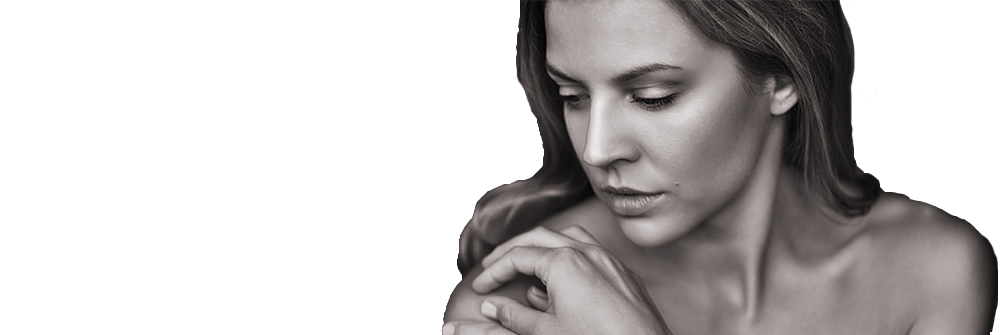
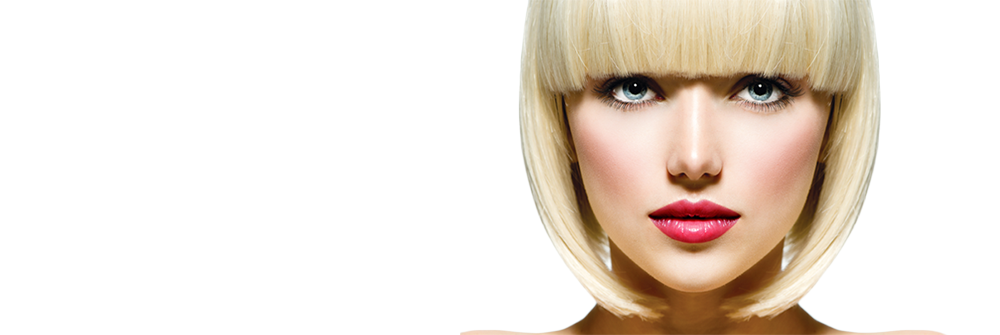
Next upload

diff --git a/sites/zabiegi/zabiegi.html b/sites/zabiegi/zabiegi.html
@@ -1,0 +1,190 @@
+<!DOCTYPE html>
+<html>
+<head>
+	<meta charset="utf-8">
+	<title>Medycyna Estetyczna - Jaśkowice</title>
+	<link rel="stylesheet" href="../css/style.css">
+	<link href="https://fonts.googleapis.com/css?family=Antic+Didone|Cinzel|Cormorant+Garamond|Libre+Baskerville|Maitree|Old+Standard+TT|Poiret+One" rel="stylesheet"> 
+	<script src="https://ajax.googleapis.com/ajax/libs/jquery/3.2.1/jquery.min.js"></script>
+	<script src="../js/flipper.js"></script>
+	<link href="//maxcdn.bootstrapcdn.com/font-awesome/4.1.0/css/font-awesome.min.css" rel="stylesheet">
+</head>
+<body>
+	<section id="mainImages">
+		<p class="thetop"> &nbsp;</p>
+		<nav class="nav">
+		<section>
+			<a href="../index.html"><img id="logo" src="../images/logo.png"/></a>
+		</section>
+		<ul id="links">
+			<li class="linkItem"><a href="omnie.html">O Mnie</a></li>
+			<li class="linkItem"><a href="cennik.html">Cennik</a></li>
+			<li class="linkItem"><a href="promocje.html">Promocje</a></li>
+			<li class="linkItem"><a href="galeria.html">Galeria</a></li>
+			<li class="linkItem"><a href="kontakt.html">Kontakt</a></li>
+		</ul>
+	</nav>
+		
+	<div id="slideshow">
+		<div id="slideBox1">
+		</div>
+		<div id="slideBox2">
+		</div>
+		<div id="slideBox3">
+		</div>
+	</div>
+	</section>
+	
+	<div class="wrapper">
+		<section class=fullWidth>
+			<h1 class="artHead">Zabiegi odmładzające i wyszczuplające</h1>
+			<h2 class="smallHead">Zapraszam do zapoznania się z ofertą mojego gabinetu medycyny estetycznej w Jaśkowicach.</h2>
+			
+			<div class="flip-container" ontouchstart="this.classList.toggle('hover');">
+				<div class="flipper">
+					<div class="front" id="flipCard1">
+						<h3 class="flipHead">BOTOKS</h3>
+					</div>
+					<div class="back">
+						<h3 class="backHead">BOTOKS</h3>
+						<p class="backCont">Obecnie najpopularniejszy i podstawowy  zabieg medycyny estetycznej  mający na celu zwalczanie zmarszczek. Uważany jest za środek, który szybko likwiduje zmarszczki oraz wykazuje działanie przeciwstarzeniowe (anty-aging).</p>
+						<a href="zabiegi/botoks.html"><button class="backMore">dowiedz się więcej</button></a>
+					</div>
+				</div>
+			</div>
+			<div class="flip-container" ontouchstart="this.classList.toggle('hover');">
+				<div class="flipper">
+					<div class="front" id="flipCard2">
+						<h3 class="flipHead">KWAS HIALURONOWY (HA)</h3>
+					</div>
+					<div class="back">
+						<h3 class="backHead">KWAS HIALURONOWY (HA)</h3>
+						<p class="backCont">Kwas hialuronowy to substancja naturalnie występująca w organizmie człowieka. Stanowi on główną komponentę macierzy zewnątrzkomórkowej skóry.Jego  podstawową funkcją jest wiązanie wody, co pozwala utrzymać właściwy stopień nawilżenia tkanek. Jednak wraz z wiekiem zmniejsza się jego ilość oraz zmienia się też jego jakość, co doprowadza do zwiotczenia skóry, spowalniają się procesy gojenia czego konsekwencją morfologiczną jest pojawienie się zmarszczek.</p>
+						<a href="zabiegi/wypelniacze_kwas.html"><button class="backMore">dowiedz się więcej</button></a>
+					</div>
+				</div>
+			</div>
+			<div class="flip-container" ontouchstart="this.classList.toggle('hover');">
+				<div class="flipper">
+					<div class="front" id="flipCard3">
+						<h3 class="flipHead">OSOCZE BOGATOPŁYTKOWE-PRP</h3>
+					</div>
+					<div class="back">
+						<h3 class="backHead">OSOCZE BOGATOPŁYTKOWE-PRP</h3>
+						<p class="backCont">Osocze bogatopłytkowe to koncentrat płytek krwi w niewielkiej objętości osocza. Pochodzi z krwi pacjenta, zawiera czynniki wzrostu oraz białka odpowiedzialne za adhezję komórkową.</p>
+						<a href="zabiegi/osocze.html"><button class="backMore">dowiedz się więcej</button></a>
+					</div>
+				</div>
+			</div>
+			<div class="flip-container" ontouchstart="this.classList.toggle('hover');">
+				<div class="flipper">
+					<div class="front" id="flipCard4">
+						<h3 class="flipHead">USTA</h3>
+					</div>
+					<div class="back">
+						<h3 class="backHead">USTA</h3>
+						<p class="backCont">Stosowane przeze mnie preparaty kwasu hialuronowego to nowoczesne oraz całkowicie bezpieczne produkty pozwalające osiągnąć maksymalną satysfakcję. Dzięki najnowszej generacji prepratów osiągnąć możemy powiększenie objętości , odpowiednie nawilżenia oraz uwydatnienie konturu.</p>
+						<a href="zabiegi/usta.html"><button class="backMore">dowiedz się więcej</button></a>
+					</div>
+				</div>
+			</div>
+			<div class="flip-container" ontouchstart="this.classList.toggle('hover');">
+				<div class="flipper">
+					<div class="front" id="flipCard5">
+						<h3 class="flipHead">RESTYLANE SKINBOOSTERS</h3>
+					</div>
+					<div class="back">
+						<h3 class="backHead">RESTYLANE SKINBOOSTERS</h3>
+						<p class="backCont">To zabieg głęboko nawilżający, wykonywany przy użyciu dwóch różnych preparatów z kwasem hialuronowym z rodziny wypełniaczy Restylane-marki cieszącej się zaufaniem na całym świecie zarówno wśród lekarzy jak i pacjentów.</p>
+						<a href="zabiegi/restylane.html"><button class="backMore">dowiedz się więcej</button></a>
+					</div>
+				</div>
+			</div>
+			<div class="flip-container" ontouchstart="this.classList.toggle('hover');">
+				<div class="flipper">
+					<div class="front" id="flipCard6">
+						<h3 class="flipHead">ŁYSIENIE</h3>
+					</div>
+					<div class="back">
+						<h3 class="backHead">ŁYSIENIE</h3>
+						<p class="backCont">Osocze bogatopłytkowe dzięki swoim właściwością znajduje również zastosowanie w leczeniu łysienia. W obrębie owłosionej skóry głowy po zabiegu z osocza bogatopłytkowego dochodzi do aktywacji anabolizmu fibloblastów, elastyny oraz kwasu hialuronowego.</p>
+						<a href="zabiegi/lysienie.html"><button class="backMore">dowiedz się więcej</button></a>
+					</div>
+				</div>
+			</div>
+			<div class="flip-container" ontouchstart="this.classList.toggle('hover');">
+				<div class="flipper">
+					<div class="front" id="flipCard7">
+						<h3 class="flipHead">PLAZMA MEDYCZNA</h3>
+					</div>
+					<div class="back">
+						<h3 class="backHead">PLAZMA MEDYCZNA</h3>
+						<p class="backCont">Zabiegi z użyciem plazmy medycznej to obecnie najbardziej zaawansowane zabiegi z zakresu medycyny estetycznej.
+						Plazma-to zjonizowany gaz , nazywany czwartym stanem skupienia , obok cieczy, gazu i ciała stałego.
+						</p>
+						<a href="zabiegi/plazma_medyczna.html"><button class="backMore">dowiedz się więcej</button></a>
+					</div>
+				</div>
+			</div>
+			<div class="flip-container" ontouchstart="this.classList.toggle('hover');">
+				<div class="flipper">
+					<div class="front" id="flipCard8">
+						<h3 class="flipHead">NEAUVIA ORGANIC</h3>
+					</div>
+					<div class="back">
+						<h3 class="backHead">NEAUVIA ORGANIC</h3>
+						<p class="backCont">To nowa, druga generacja wypełniaczy na bazie kwasu hialuronowego.
+						Neauvia  to kwas hialuronowy wytwarzany w procesie fermentacji niepatogennych szczepów bakterii Bacillus subtilis. </p>
+						<a href="zabiegi/neauvia.html"><button class="backMore">dowiedz się więcej</button></a>
+					</div>
+				</div>
+			</div>
+			<div class="flip-container" ontouchstart="this.classList.toggle('hover');">
+				<div class="flipper">
+					<div class="front" id="flipCard9">
+						<h3 class="flipHead">LASER FRAKCYJNY CO2</h3>
+					</div>
+					<div class="back">
+						<h3 class="backHead">LASER FRAKCYJNY CO2</h3>
+						<p class="backCont">Laser frakcyjny CO2  SmartXide2 MonaLisa TOUCH to obecnie najbardziej zaawansowana technologicznie platforma laseroterapii. Gwarantuje spektakularne efekty estetyczne. Jest idealnym rozwiązaniem mającym na celu odmłodzenie skóry.</p>
+						<a href="zabiegi/laser.html"><button class="backMore">dowiedz się więcej</button></a>
+					</div>
+				</div>
+			</div>
+
+			
+		</section>	
+	</div>
+		<p id="clearer">&nbsp;</p>
+			<footer id="foot">
+			<section id="footCont">
+			
+				<section class="footBox">
+					<h6 class="footHead">Gabinet</h6>
+						<ul>
+							<li class="footList"><a href="omnie.html">>  O mnie</a></li>
+							<li class="footList"><a href="certyfikaty.html">>  Certyfikaty</a></li>
+							<li class="footList"><a href="galeria.html">>  Galeria</a></li>
+							<li class="footList"><a href="wspolpraca.html">>  Współpraca</a></li>
+						</ul>
+				</section>
+				<section class="footBox">
+					<h4 class="footHead">Oferta</h4>
+						<ul>
+							<li class="footList"><a href="zabiegi.html">>  Zabiegi</a></li>
+							<li class="footList"><a href="promocje.html">>  Promocje</a></li>
+							<li class="footList"><a href="nowosci.html">>  Nowości</a></li>
+							<li class="footList"><a href="cennik.html">>  Cennik</a></li>
+						</ul>
+				</section>
+			<img id="flower-bottom" src="../images/background_foot_2.png">
+			<p id="copyright">Copyright &copy; 2017 | Agnieszka Bacińska | created by Wojciech Procelewski</p>
+			</section>
+		</footer>
+		<div class='scrolltop'>
+			<div class='scroll icon'>DO GÓRY <i class="fa fa-4x fa-angle-up"></i></div>
+		</div>
+	
+	<script src="../js/script.js"></script>
+</body>
+</html>

diff --git a/css/style.css b/css/style.css
@@ -286,7 +286,7 @@ strong{
 	min-width: 1000px;
 	height: 250px;
 	margin: 50px 0 0 0;
-	background-image: url(../images/background_foot_1.png);
+	background-image: url(../images/background/light-pink-background.jpg);
 	background-size: cover;
     background-repeat: no-repeat;
     background-position: center;
@@ -298,10 +298,10 @@ strong{
 	margin-top: 50px;
 }
 #flower-bottom{
-	height: 340px;
-	width: 410px;
+	height: 300px;
+	width: 370px;
 	float: right;
-	margin-top: -140px;
+	margin-top: -100px;
 	display: inline;
 	position: relative;
 }
@@ -317,7 +317,6 @@ strong{
 	font-family: "karla", serif;
 	display: inline-block;
 	float: left;
-	margin-top: 5px;
 	margin-left: 5px;
 	height: 30px;
 	width: 130px;
@@ -327,8 +326,9 @@ strong{
 	transform: scale(1.3)
 }
 .footList a{
+	font-size: 1.2em;
 	transition: all .2s ease-in-out;
-	color:darksalmon;
+	color: darkslategray;
 }
 .footList a:hover{
 	color: #5d0859;
@@ -336,9 +336,8 @@ strong{
 .footHead{
 	font-family: "karla", serif;
 	margin-bottom: 20px;
-	font-weight: 500;
 	text-align: left;
-	font-size: 1.4em;
+	font-size: 1.6em;
 }
 .footList a{
 	text-decoration: none;
@@ -643,6 +642,12 @@ ul .contact:last-child{
 }
 #slideBox3{
 	background-image: url(../images/slideshow/slide3.png);
+}
+#slideBox4{
+	background-image: url(../images/slideshow/slide4.png);
+}
+#slideBox5{
+	background-image: url(../images/slideshow/slide5.png);
 }
 /* koniec slidera */
 

diff --git a/index.html b/index.html
@@ -54,6 +54,20 @@
 			   </p>
 			 <button class="slideMore">dowiedz się więcej</button>
 		   </div>
+		<div id="slideBox4">
+			 <h1 class="slideHead">To będzie header slider czwartego</h1>
+			   <p class="slideDesc">
+			   to będzie opis slidera  w trzecim
+			   </p>
+			 <button class="slideMore">dowiedz się więcej</button>
+		   </div>
+		<div id="slideBox5">
+			 <h1 class="slideHead">To będzie header slider piątego</h1>
+			   <p class="slideDesc">
+			   to będzie opis slidera  w trzecim
+			   </p>
+			 <button class="slideMore">dowiedz się więcej</button>
+		   </div>
 		</div>
 	</section>
 
